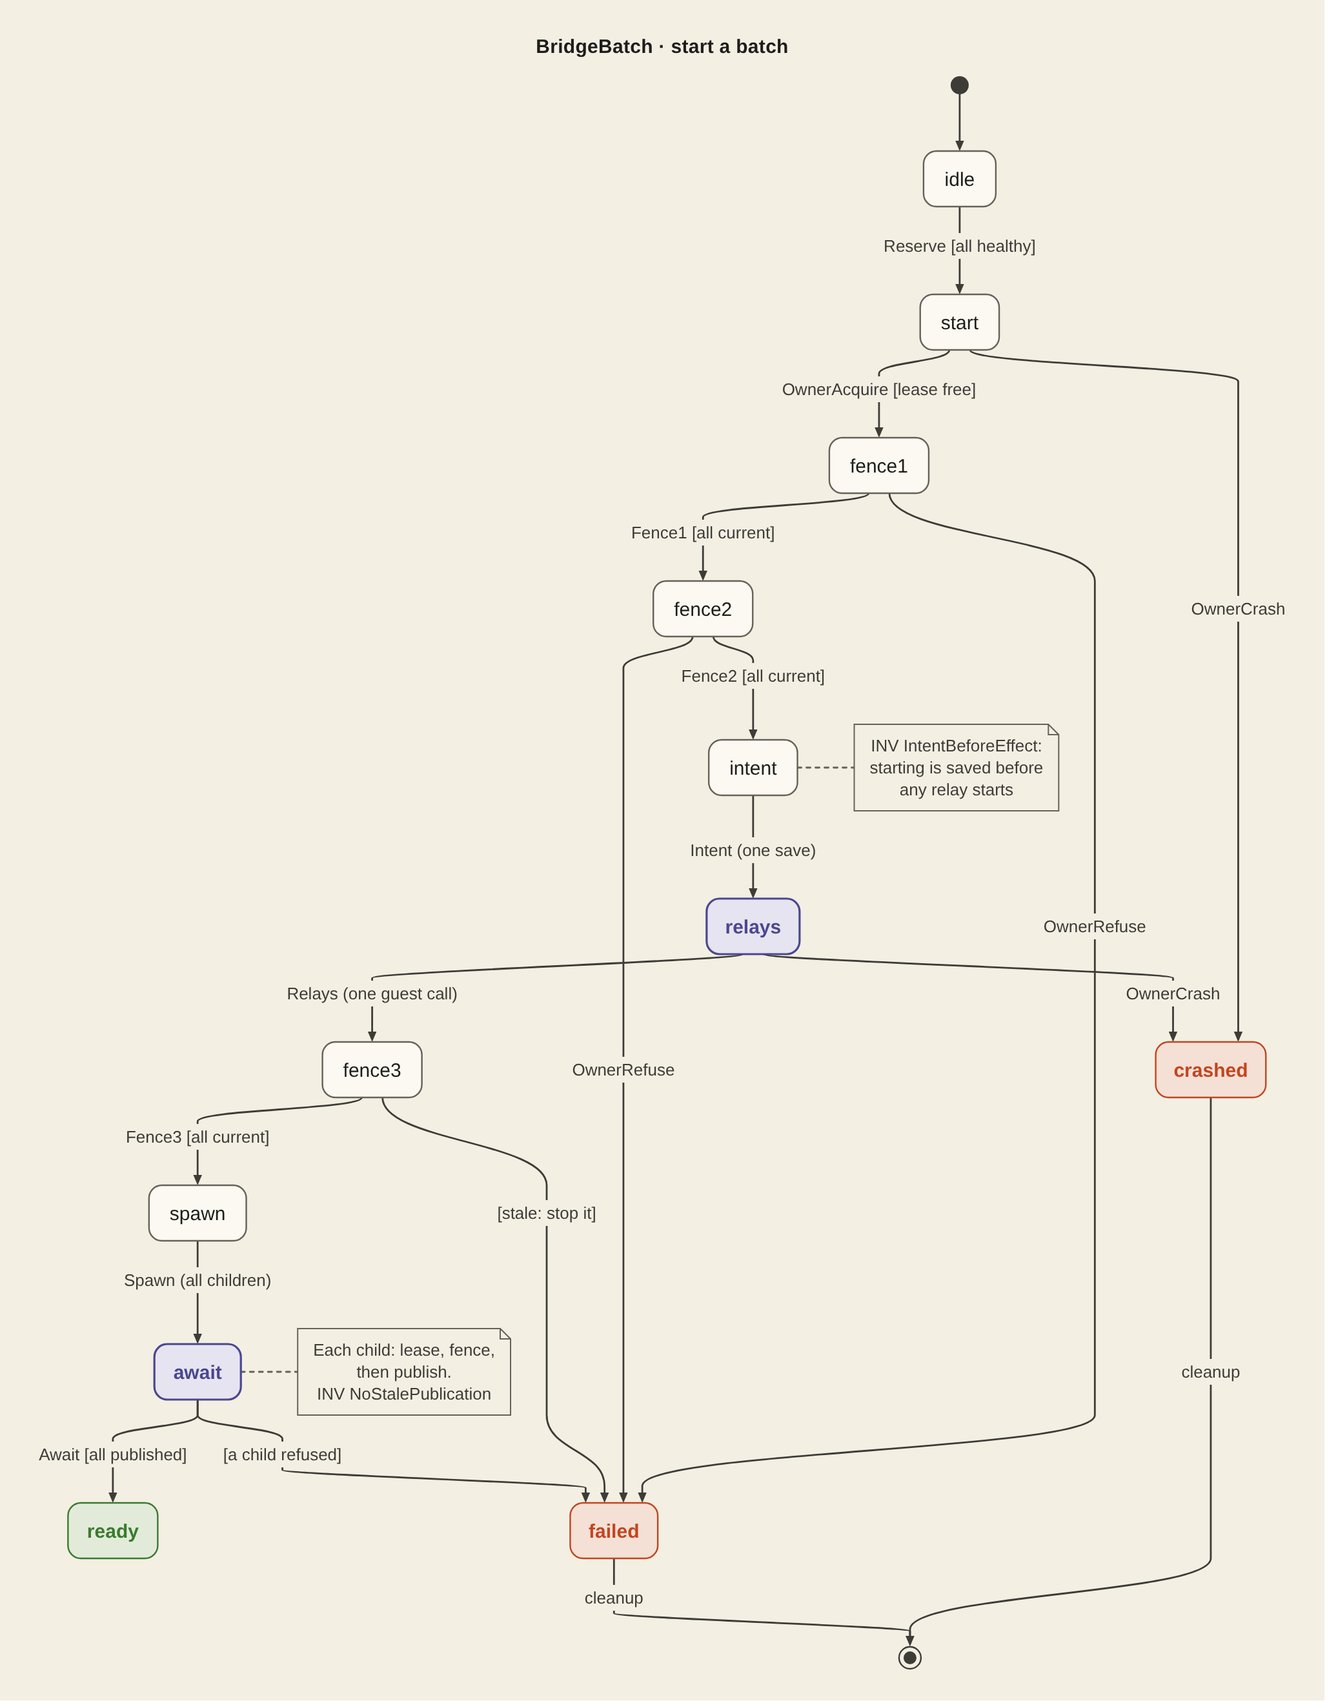
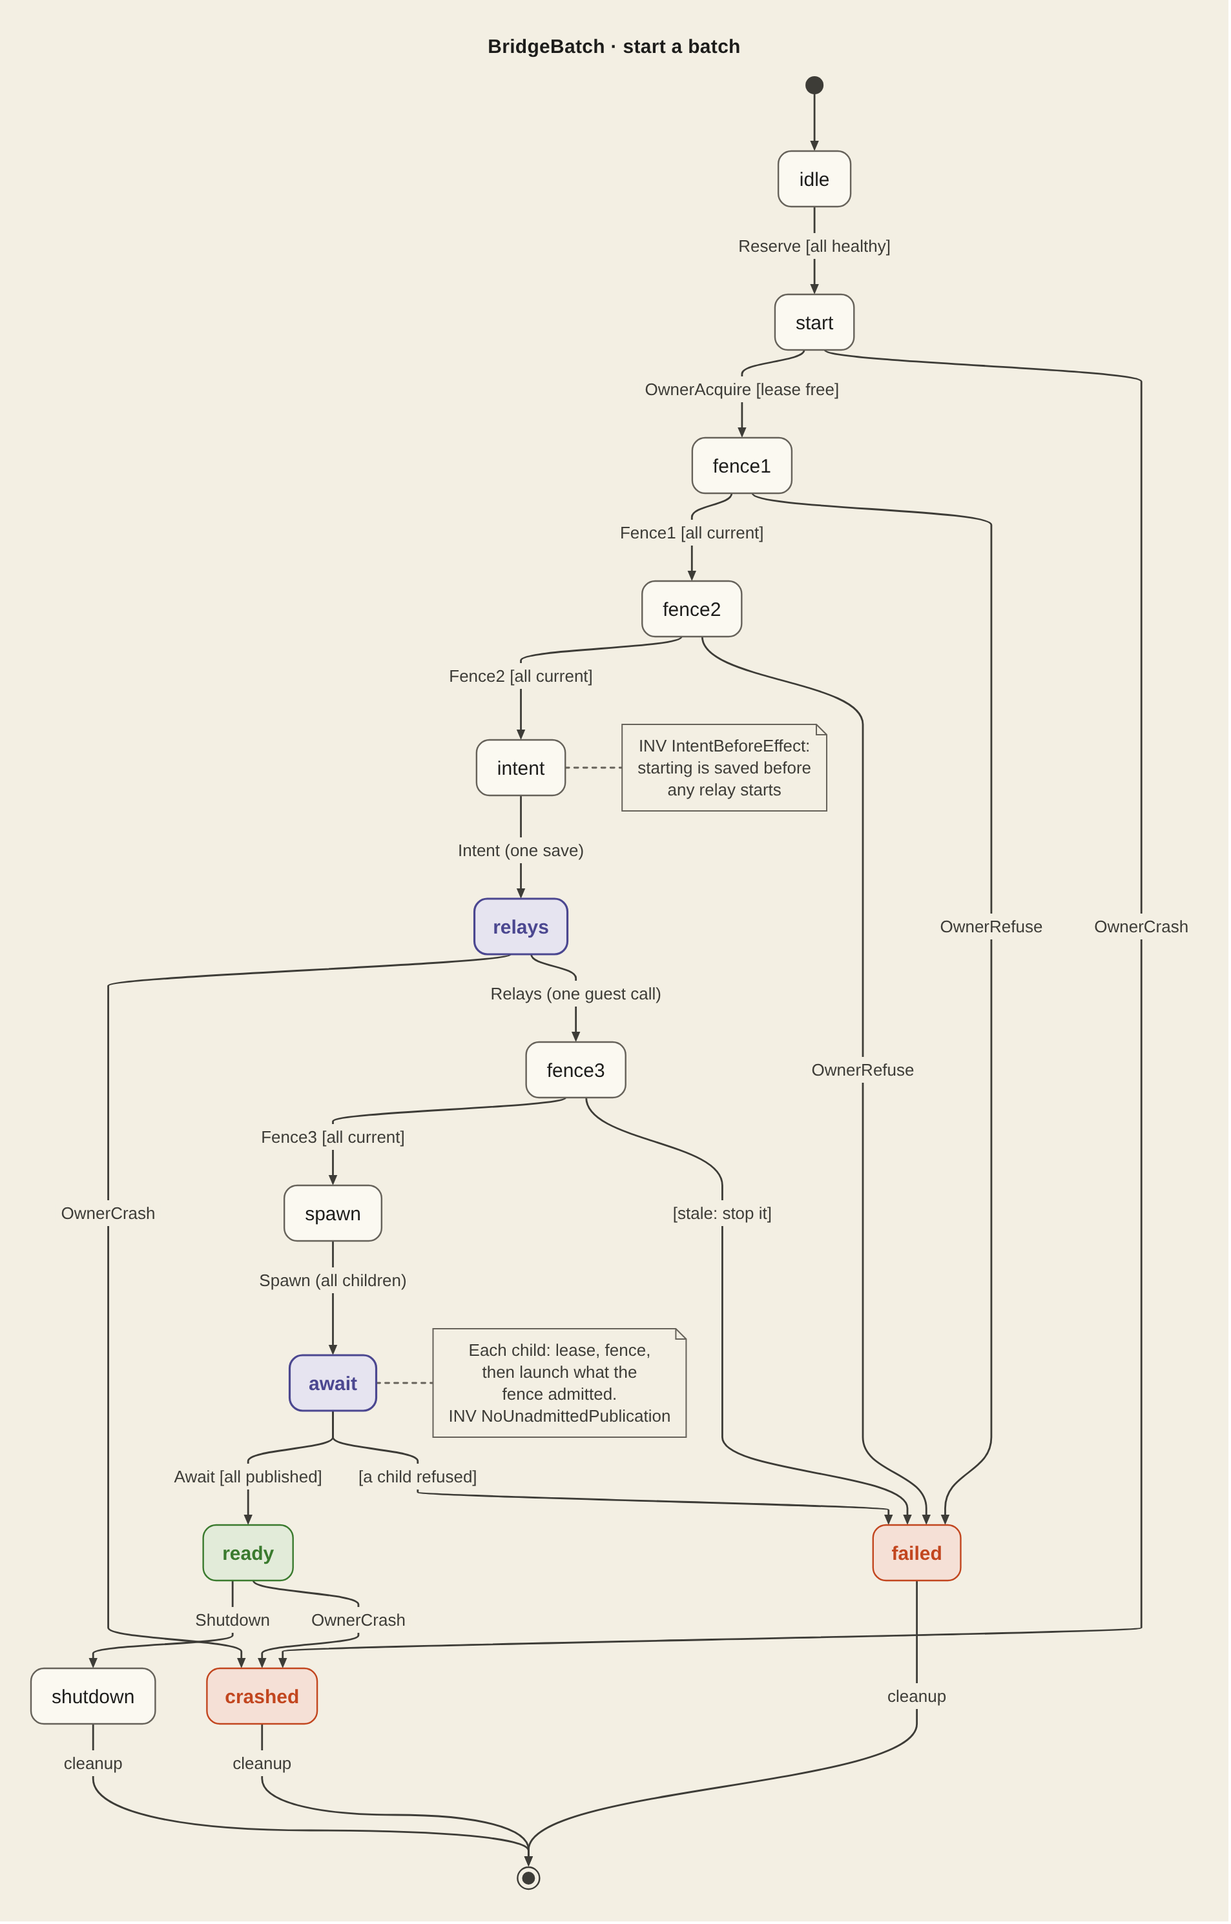
test(models): release after ready, and the child's fence apart from its launch
Review: ready was terminal, so shutdown or owner death after a successful
batch, followed by release, was never explored; and the child's fence and
launch were one step, claiming freshness at launch that the code does not
give. Ready can now shut down or crash into cleanup (new witness:
release-after-ready), and the child fences, records what it admitted, then
launches; the invariant is stated as admission (NoUnadmittedPublication).
14,674 states.

diff --git a/scripts/lib/tla-runtime-models.ts b/scripts/lib/tla-runtime-models.ts
@@ -1927,7 +1927,7 @@ const contracts: readonly ModelContract[] = [
     // see tests/models/tla/bridge-batch/COVERAGE.md.
     name: "bridge-batch",
     module: "BridgeBatch",
-    states: 12_706,
+    states: 14_674,
     invariant: "Safe",
     action: "Relays",
     fields: ['opc = "late"', 'relay = [r |-> "running", p |-> "running"]'],
@@ -1935,7 +1935,7 @@ const contracts: readonly ModelContract[] = [
       {
         name: "child-fence",
         negative: true,
-        action: "ChildPublish",
+        action: "ChildLaunch",
         fields: ["staleLaunch = TRUE", 'lease = "free"'],
       },
       {
@@ -1957,6 +1957,13 @@ const contracts: readonly ModelContract[] = [
         invariant: "NeverReleased",
         action: "CleanDrop",
         fields: ['rpc = "done"', 'lease = "free"'],
+      },
+      {
+        name: "release-after-ready",
+        negative: true,
+        invariant: "NeverReleasedAfterReady",
+        action: "CleanDrop",
+        fields: ['rpc = "done"', "everReady = TRUE"],
       },
       {
         name: "stale-stop-reachable",

diff --git a/docs/reference/v5-model-coverage.md b/docs/reference/v5-model-coverage.md
@@ -57,7 +57,7 @@ must be attached to the eventual exact integration revision.
 | Data lifetime independent of compute; replaced/aliased metadata; retained-data handoff across Compose plan changes, including dependency caches | native-persistent-enrollment, native-storage-witness, native-file-material, native-plan-reconcile, native-cache-reconcile | Existing-only enrollment, exact birth/witness and reference fencing; copied-label/replacement tests; `provider/graph/plan_reconcile.rs` projection and cache-selection tests | Real SQL/content retention, external writer assumptions, allocated-byte evidence. |
 | Settled retained Compose route-attempt retirement; pinned references; interrupted deletion | **Coverage gap:** filesystem journal compaction is not modeled; native-route-stop covers a different stop protocol | Instance mutation lock and exact surviving claim witnesses in [journal compaction](../../src/lib/native-compose-route-claims.ts); [claim regressions](../../tests/native-compose-route-claims.test.ts) and [retained lifecycle integration](../../tests/native-compose-adoption-routing-generation.test.ts) | 24 successful operations keep two attempt directories and constant Linux descriptors; four integrated lifecycle operations check directory counts. Injected unlink failures cover same-store and fresh-store cleanup retries. Assumes cooperative same-user writers, the caller's mutation lock and working filesystem synchronization. No process-kill/power-loss durability proof or bound on unresolved/over-budget histories. |
 | Graph cleanup container stop batch: bounded in-flight stops, shared worker queue, connect-stage retry, batch-wide unreachable state, deadline expiry, worker panic | **Coverage gap:** no maintained model covers scheduling inside the stop batch; native-route-stop covers a different stop protocol | `dispatch` and `attempt` in [the stop batch](../../packages/runtime-core/src/provider/engine/stop.rs): at most 4 stops in flight, every worker joined; only `connect`/`connect_timeout` failures retry (25 ms doubling to 500 ms, within the batch deadline and 30 s of a stop's first connect failure); once one stop exhausts its window, later connect failures return at once; a deadline reached during backoff keeps the connect stage; `response`, `timeout` and `transport` never retry. Regressions in the same file's `provider::engine::stop` tests (bounded in-flight socket server, late socket, missing socket, 14-stop retry counts, persistent connect failures, oversleeping backoff, non-retried stages, worker panic) and `fourteen_service_connect_failures_keep_resumable_progress_and_retry_only_unstopped` | Tests cover exact attempt counts and the in-flight bound for fixed interleavings; no model explores all worker schedules or proves at most one delivered request per stop. Assumes a failed connect sent no request bytes and that the stop budget covers fully serialized grace periods. Graph-level resume after a partial batch is covered by tests only. Host qualification of the descriptor-pressure root cause (HACK-1302) remains open. |
-| Route and port bridges started, published and released as one batch: fences against a replaced or unhealthy target, children taking the lease in turn, owner/cleanup crash between steps (HACK-2442) | [bridge-batch](../../tests/models/tla/bridge-batch/COVERAGE.md): 12,706 states; controls remove intent-before-effect, the child fence and listener-before-relay order | `bridges.rs` `reserve_publications`, `start_selected`, `publish_bridge`, `release_selected`; `relay.rs` `operate_all`; `publishers.rs` start/await. Rust `bridges::batch_tests` walk each modeled transition with a fake engine and guest | Two slots, two crashes, one replacement and health loss per container; atomic fences and saves; one boot; no liveness. `publishers.rs` and real guest/publisher effects are macOS-only (type-checked from Linux, qualified on the VM). |
+| Route and port bridges started, published and released as one batch: fences against a replaced or unhealthy target, children taking the lease in turn, owner/cleanup crash between steps (HACK-2442) | [bridge-batch](../../tests/models/tla/bridge-batch/COVERAGE.md): 14,674 states, including shutdown or owner death after ready; controls remove intent-before-effect, the child fence and listener-before-relay order | `bridges.rs` `reserve_publications`, `start_selected`, `publish_bridge`, `release_selected`; `relay.rs` `operate_all`; `publishers.rs` start/await. Rust `bridges::batch_tests` walk each modeled transition with a fake engine and guest | Two slots, two crashes, one replacement and health loss per container; atomic fences and saves; one boot; no liveness. `publishers.rs` and real guest/publisher effects are macOS-only (type-checked from Linux, qualified on the VM). |
 | Concurrent stop/publication; route claim and relay lifetime | native-route-stop, shared-https-lifetime, previous-boot-shared-https, relay-lifecycle-barrier, relay-authorization, relay-staging, relay-fence | Fenced route removal, relay owner, ready/removed protocol, authenticated observations | Native DNS/TLS/browser behavior; old-boot uncertainty and external routing. |
 | Inferred Caddy route readiness without authored probes | Existing probe generation, exec identity and freshness checks are reused; no new lifecycle transition | `http_probe.rs` and compiled `guest/http-probe.c` tests cover TCP refusal, complete HTTP 2xx–4xx, 5xx, EOF, timeout, partial/oversized headers and bounded interim responses. Compiled-helper startup regressions cover no listener and boot-time 5xx reaching a named service failure; route diagnostics name the port and remedies. A compiled production-transition fake-clock test drives graph readiness at 120 s, with the old 60 s grace as a negative control; it injects request outcomes and does not test real elapsed scheduling. A cadence regression covers the switch after first success. Bridge reservation regressions preserve running relay assignments when ready endpoints disappear. Project contracts preserve explicit checks and refuse inferred service_healthy dependencies; TypeScript route/preflight tests require the exact reviewed inferred policy. HTTPS tests require a fresh upstream response challenge for inferred routes | 32 route slots, 1 s startup/30 s steady interval, 1 s deadline, 8 KiB headers, four interim responses, three failed samples and 240 s initial grace. The separate 300 s graph budget includes earlier services and can still return unnamed graph_timeout. Bridge registry tests do not exercise continued route traffic; that remains a real-Caddy/VM check. No model explores HTTP parsing or Caddy handler behavior. TLS fixtures simulate the proxy marker; an actual Caddy/authority/VM run must qualify application 404 versus authority denial, SNI mismatch and missing upstream. |
 | Shared host helper instance: overlapping ups, session adoption, stale create decisions, replacement before finalize, epoch-record failure, interrupted cleanup, concurrent down, displaced launches, failed down session stop | shared-helper-instance | `src/lib/project-shared-helpers.ts` (shutdown generation, `assertCurrent`, `SharedHelperSessionOwnership`); `src/lib/project-lifecycle-controller.ts` session decision, the locked creation transaction (revalidate, publish, create, environment, record, stop on failure, all under one lock), launches fenced by the lock and a token check, abort and signal cleanup through the same epoch decision (`runIfOwned`), an unknown exact-presence answer failing the inspection, and the locked conditional finalize; `stopSessionBeforeReleasingHelpers` (down, restart, native retirement keep holders when the session stop fails); `runMuxCommand` bounds every lifecycle and backend mux call so it settles before the lock is released, and reports a timeout as unknown (never absence); `tests/mux-command-timeout.test.ts`; `tests/project-lifecycle-controller-ownership.test.ts`, `tests/project-shared-helpers.test.ts`, `tests/native-project-down.test.ts`, e2e `shared-host-helpers` | Helper holder/rollback and claim protocol are not modeled (claim fixtures cover them); timeout settlement is an assumption the code does not guarantee (a killed tmux client's queued command may still apply, so a late kill or window command can reach a newer session; consequences and the session-ID fence, not in this slice, are in the README); zellij is refused for shared-helper lifecycle sessions (token written after creation); the gap between a down's session stop and its release (an up that captured after the stopping mark can still succeed there) is a documented first-slice limitation; real mux/process/lock-file behavior. |
@@ -102,7 +102,7 @@ liveness/reachability controls have their own documented assumptions.
 | [native-storage-witness](../../tests/models/tla/native-storage-witness/Witness.tla) | 352 | 19 |
 | [native-file-material](../../tests/models/tla/native-file-material/Material.tla) | 8,388 | 12 |
 | [native-foreground-down-hooks](../../tests/models/tla/native-foreground-down-hooks/DownHooks.tla) | 1,246 | 6 |
-| [bridge-batch](../../tests/models/tla/bridge-batch/COVERAGE.md) | 12,706 | 7 |
+| [bridge-batch](../../tests/models/tla/bridge-batch/COVERAGE.md) | 14,674 | 8 |
 | [native-route-stop](../../tests/models/tla/native-route-stop/Stop.tla) | 202 | 6 |
 | [registry-writer](../../tests/models/tla/registry-writer/RegistryWriter.tla) | 7,721 | 2 |
 | [absent-publication-recovery](../../tests/models/tla/absent-publication-recovery/Absent.tla) | 247 | 5 |

diff --git a/tests/models/tla/bridge-batch/COVERAGE.md b/tests/models/tla/bridge-batch/COVERAGE.md
@@ -15,24 +15,25 @@ Mermaid sources sit next to them.
 | Invariant | In plain words |
 | --- | --- |
 | `IntentBeforeEffect` | No relay runs in the guest unless its slot's durable phase says it was started (`starting`, `running` or `stopping`). |
-| `NoStalePublication` | A host listener is launched only to a running relay whose container is still the incarnation reserved, and healthy. |
+| `NoUnadmittedPublication` | A host listener is launched only after its own fence, in the same lease hold, observed a running relay whose container was the reserved, healthy incarnation. This is an admission property: the container can still change between that fence and the launch (the relay stays pinned to the fenced incarnation; forwarding and restart rebinding are `loopback-port-publication` and `service-restart-policy`). |
 | `ListenerClosedBeforeRelayStop` | A relay is never stopped while its host listener still serves. |
 | `ReleaseComplete` | A finished release leaves no relay and no live listener. |
-| `ReadyComplete` | `ready` means every bridge of the batch is `running` and published. |
+| `ReadyComplete` | `ready` means every bridge of the batch is `running` and published. A ready owner can then shut down (Ctrl-C, `down`) or die, and cleanup releases the run. |
 
 ## Checked bounds
 
 TLC 1.7.4, 2 workers, `MaxCrashes = 2` (owner and cleanup crashes share the
 budget), two slots, one replacement and one health loss per container.
-Positive: 12,706 distinct states, 40,459 generated, depth 32, no violation.
+Positive: 14,674 distinct states, 46,907 generated, depth 35, no violation.
 
 | Control | Guard removed or witness | Expected result |
 | --- | --- | --- |
 | `negative` | `EnforceIntent = FALSE`: relays start before `starting` is saved | `Safe` violated at `Relays` |
-| `child-fence` | `EnforceChildFence = FALSE`: a child publishes without the fence | `Safe` violated at `ChildPublish` (container replaced after the batch) |
+| `child-fence` | `EnforceChildFence = FALSE`: a child launches although its fence refused | `Safe` violated at `ChildLaunch` (container replaced after the batch) |
 | `release-order` | `EnforceReleaseOrder = FALSE`: relays stop before listeners close | `Safe` violated at `CleanStop` (an orphan listener of a crashed owner) |
 | `ready-reachable` | `NeverReady` | reached at `Await` |
 | `release-reachable` | `NeverReleased` | reached at `CleanDrop` |
+| `release-after-ready` | `NeverReleasedAfterReady` | reached at `CleanDrop` after a ready batch with both listeners published was shut down |
 | `stale-stop-reachable` | `NeverStaleStop` | reached at `Fence3` (one slot stopped, the other running) |
 
 Run by `bun run test:models` (`scripts/lib/tla-runtime-models.ts`, entry
@@ -46,22 +47,28 @@ Run by `bun run test:models` (`scripts/lib/tla-runtime-models.ts`, entry
 | `OwnerAcquire`, `Fence1`, `Fence2`, `OwnerRefuse` | `start_bridges`, `start_selected` steps 1–3, `inspect_targets` | `target_restarted_before_relay_intent_refuses_with_nothing_recorded`, `health_lost_after_reservation_refuses_like_a_restart` |
 | `Intent`, `Relays` | `start_selected` steps 4–5, `relay.rs` `start_all`, `relay-batch.sh` | `one_lease_starts_every_relay_with_one_guest_call_per_step` (asserts `starting` is on disk inside the relay call), `unconfirmed_relay_start_retains_every_launch_intent_for_cleanup`, `relay::tests::batch_wrapper_runs_each_slot_with_its_arguments_and_the_payload` |
 | `Fence3` | `start_selected` step 6 | `target_restarted_mid_batch_stops_only_its_relay_and_refuses` |
-| `Spawn`, `Await` | `foreground/publishers.rs` `Publishers::start`, `await_published` | macOS only: type-checked; exercised by the native fixtures and the lead's VM runs |
-| `ChildAcquire`, `ChildPublish`, `ChildRefuse` | `bridges.rs` `connect_waiting`, `publish_bridge` | `health_lost_after_reservation_refuses_like_a_restart` (child fence) |
+| `Spawn`, `Await`, `Shutdown` | `foreground/publishers.rs` `Publishers::start`, `await_published` | macOS only: type-checked; exercised by the native fixtures and the lead's VM runs |
+| `ChildAcquire`, `ChildFence`, `ChildLaunch` | `bridges.rs` `connect_waiting`, `publish_bridge` (fence and relay inspect, then `publication::launch`) | `health_lost_after_reservation_refuses_like_a_restart` (child fence) |
 | `CleanAcquire` … `CleanDrop` | `bridges.rs` `release_selected` (#1015; before it, `release_run` ran the same phases one slot at a time), `publication.rs` `release_reservations` | `release_retires_each_phase_for_the_whole_run_in_order`, `refused_batch_stop_keeps_every_slot_and_the_next_release_resumes` |
 | `CleanCrash`, `OwnerCrash` | process death; the kernel releases the `flock` lease | the resume tests above |
 
 ## Assumptions and what is not covered
 
-- A fence is one atomic read. The real fence is several engine GETs under the
-  lease; a container change between them is caught by the next fence or by the
-  generation mismatch.
+- A fence is one atomic read; the real fence is several engine GETs under the
+  lease. The child's fence and its launch are separate steps, and nothing
+  re-checks the target between them: the model admits a change there, and the
+  property is stated as admission by the observation, not freshness at launch.
 - The per-slot `stop_slot` used for a slot found stale after its relay started
   is one step; its own phases are covered by `relay-fence` and
   `relay-lifecycle-barrier`.
 - Journal saves are atomic. Single-step pending-journal recovery of the
   publication journal is `publication-journal`; the release keeps one entry
   removal per save so that recovery still applies.
+- Outside this model: partial effects inside one guest batch call (some relays
+  started, the call refused), a crash between spawning two children, and a
+  crash inside `Fence3`'s host and guest stop of a stale slot. The per-slot
+  `relay-fence` and `relay-lifecycle-barrier` models cover a single slot's
+  phases; their composition with the batch is not checked here.
 - One guest boot. Earlier-boot relays (marked `stopped` without a guest call)
   are covered by Rust tests, not this model.
 - No liveness: the model does not claim that a waiting child or a cleanup

diff --git a/tests/models/tla/README.md b/tests/models/tla/README.md
@@ -1004,7 +1004,7 @@ have canonical copies and were not duplicated.
 | authority-lifetime | 9 | Authority cannot outlive completed runtime shutdown; removing the startup lease permits a late bind | `hostname_authority.rs` startup lock and shutdown |
 | publication-journal | 50 | Recovery cannot adopt a live writer's pending entry; unsafe recovery violates that condition | `publication.rs` journal recovery |
 | publication | 16 | A live native publication retains its intent, directory and guest; early retirement breaks ownership | `publication.rs`, `publication_stage.rs` |
-| bridge-batch | 12706 | One provider lease starts a batch of route and port bridges and a cleanup releases them: no relay without its durable intent, no listener launched to a replaced or unhealthy target, no relay stopped under a live listener, a finished release leaves nothing, `ready` means everything is published. Negative controls: relays before intent (`negative`), child without fence (`child-fence`), relays stopped before listeners (`release-order`); reachability of ready, release and a mid-batch stale stop. See [COVERAGE.md](bridge-batch/COVERAGE.md) | `graph/bridges.rs` (`reserve_publications`, `start_selected`, `publish_bridge`, `release_selected`), `graph/relay.rs`, `publication.rs`, `graph/foreground/publishers.rs` |
+| bridge-batch | 14674 | One provider lease starts a batch of route and port bridges and a cleanup releases them: no relay without its durable intent, no listener launched without its own fence admitting the reserved, healthy target, no relay stopped under a live listener, a finished release leaves nothing, `ready` means everything is published. Negative controls: relays before intent (`negative`), child without fence (`child-fence`), relays stopped before listeners (`release-order`); reachability of ready, release, release after ready and a mid-batch stale stop. See [COVERAGE.md](bridge-batch/COVERAGE.md) | `graph/bridges.rs` (`reserve_publications`, `start_selected`, `publish_bridge`, `release_selected`), `graph/relay.rs`, `publication.rs`, `graph/foreground/publishers.rs` |
 | loopback-port-publication | 1008 | One listener per published host port, forwarding only to the pinned container incarnation, recovery only for a dead owner, and no listener after acknowledged stop. Negative controls: recovery without the dead-owner check (`negative`), no loopback probe (`no-probe`), no endpoint identity check (`stale-target`), acknowledging stop before closing the listener (`ack-before-close`) | `publication.rs` (`require_loopback_port_free`, `release`), `graph/bridges.rs` loopback bridges, `graph/foreground/publishers.rs` |
 | fence-first | 24 | First recovery needs terminal prior state, no occupied slot, and complete evidence; ignoring occupancy fails | `graph/relay-fence.sh` initial recovery |
 | fence-pending | 7 | Recover only permitted pending transitions; accepting launching-to-stopped leaves a live process | `graph/relay-fence.sh` pending recovery |
